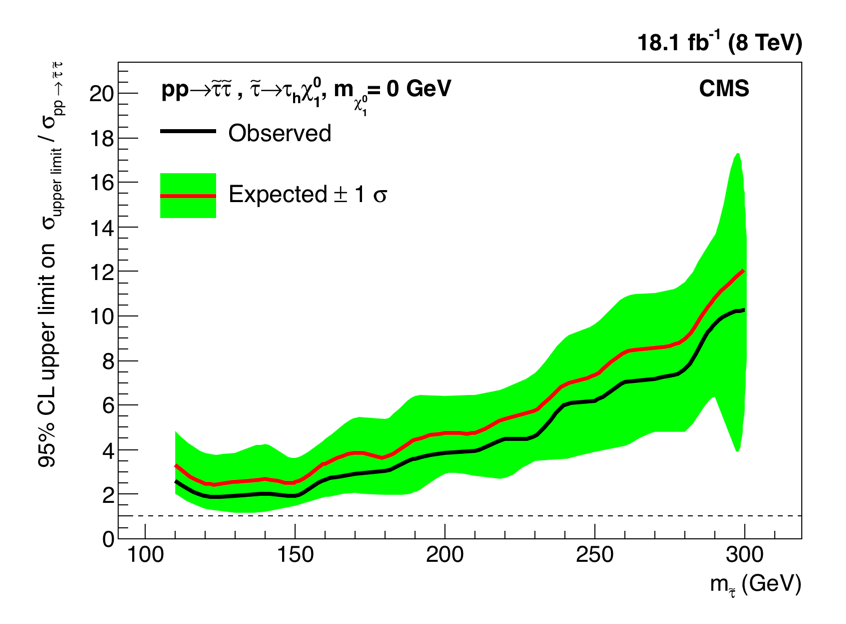
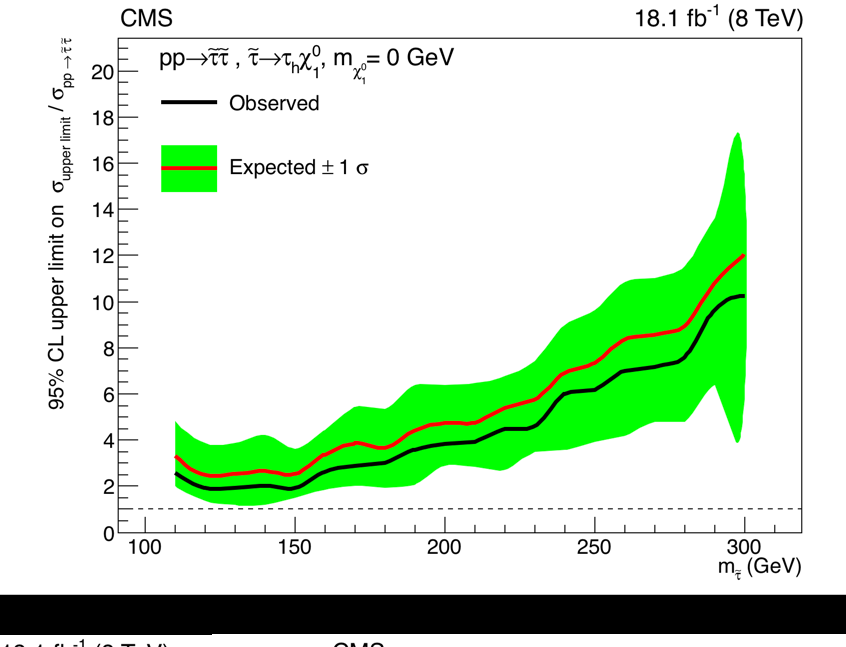
Fig.7 is again modified

Changed region(s): [[0.0, 0.0, 1.0, 1.0]]

diff --git a/papers/SUS-14-022/trunk/StatisticsFig/ExclusionSTauSTauLsp1.C b/papers/SUS-14-022/trunk/StatisticsFig/ExclusionSTauSTauLsp1.C
@@ -1,8 +1,8 @@
-void a()
+void ExclusionSTauSTauLsp1()
 {
 //=========Macro generated from canvas: ExclusionSTauSTauLsp1/ExclusionSTauSTauLsp1
-//=========  (Mon Jul 18 12:12:55 2016) by ROOT version6.07/07
-   TCanvas *ExclusionSTauSTauLsp1 = new TCanvas("ExclusionSTauSTauLsp1", "ExclusionSTauSTauLsp1",177,45,848,676);
+//=========  (Mon Jul 18 12:38:45 2016) by ROOT version6.07/07
+   TCanvas *ExclusionSTauSTauLsp1 = new TCanvas("ExclusionSTauSTauLsp1", "ExclusionSTauSTauLsp1",177,45,848,672);
    gStyle->SetOptTitle(0);
    ExclusionSTauSTauLsp1->Range(51.37143,-3.807417,333.6571,24.20766);
    ExclusionSTauSTauLsp1->SetFillColor(0);
@@ -144,34 +144,35 @@ void a()
    grae->SetName("TwoSigmaBand");
    grae->SetTitle("STauSTau");
    grae->SetFillColor(3);
+   grae->SetLineColor(2);
+   grae->SetLineWidth(4);
+   
+   TH1F *Graph_Graph_Graph_TwoSigmaBand300130013001 = new TH1F("Graph_Graph_Graph_TwoSigmaBand300130013001","STauSTau",100,91,319);
+   Graph_Graph_Graph_TwoSigmaBand300130013001->SetMinimum(0);
+   Graph_Graph_Graph_TwoSigmaBand300130013001->SetMaximum(21.40615);
+   Graph_Graph_Graph_TwoSigmaBand300130013001->SetDirectory(0);
+   Graph_Graph_Graph_TwoSigmaBand300130013001->SetStats(0);
 
    Int_t ci;      // for color index setting
    TColor *color; // for color definition with alpha
-   ci = TColor::GetColor("#ff0000");
-   grae->SetLineColor(ci);
-   grae->SetLineWidth(4);
-   
-   TH1F *Graph_Graph_TwoSigmaBand30013001 = new TH1F("Graph_Graph_TwoSigmaBand30013001","STauSTau",100,91,319);
-   Graph_Graph_TwoSigmaBand30013001->SetMinimum(0);
-   Graph_Graph_TwoSigmaBand30013001->SetMaximum(21.40615);
-   Graph_Graph_TwoSigmaBand30013001->SetDirectory(0);
-   Graph_Graph_TwoSigmaBand30013001->SetStats(0);
-
    ci = TColor::GetColor("#000099");
-   Graph_Graph_TwoSigmaBand30013001->SetLineColor(ci);
-   Graph_Graph_TwoSigmaBand30013001->GetXaxis()->SetTitle("m_{#tilde{#tau}} (GeV)");
-   Graph_Graph_TwoSigmaBand30013001->GetXaxis()->SetLabelFont(42);
-   Graph_Graph_TwoSigmaBand30013001->GetXaxis()->SetTitleOffset(1.18);
-   Graph_Graph_TwoSigmaBand30013001->GetXaxis()->SetTitleFont(42);
-   Graph_Graph_TwoSigmaBand30013001->GetYaxis()->SetTitle("95% CL upper limit on  #sigma_{upper limit} / #sigma_{pp #rightarrow #tilde{#tau} #tilde{#tau}}");
-   Graph_Graph_TwoSigmaBand30013001->GetYaxis()->SetLabelFont(42);
-   Graph_Graph_TwoSigmaBand30013001->GetYaxis()->SetTitleOffset(1.24);
-   Graph_Graph_TwoSigmaBand30013001->GetYaxis()->SetTitleFont(42);
-   Graph_Graph_TwoSigmaBand30013001->GetZaxis()->SetLabelFont(42);
-   Graph_Graph_TwoSigmaBand30013001->GetZaxis()->SetLabelSize(0.035);
-   Graph_Graph_TwoSigmaBand30013001->GetZaxis()->SetTitleSize(0.035);
-   Graph_Graph_TwoSigmaBand30013001->GetZaxis()->SetTitleFont(42);
-   grae->SetHistogram(Graph_Graph_TwoSigmaBand30013001);
+   Graph_Graph_Graph_TwoSigmaBand300130013001->SetLineColor(ci);
+   Graph_Graph_Graph_TwoSigmaBand300130013001->GetXaxis()->SetTitle("m_{#tilde{#tau}} (GeV)");
+   Graph_Graph_Graph_TwoSigmaBand300130013001->GetXaxis()->SetLabelFont(42);
+   Graph_Graph_Graph_TwoSigmaBand300130013001->GetXaxis()->SetLabelSize(0.035);
+   Graph_Graph_Graph_TwoSigmaBand300130013001->GetXaxis()->SetTitleSize(0.035);
+   Graph_Graph_Graph_TwoSigmaBand300130013001->GetXaxis()->SetTitleFont(42);
+   Graph_Graph_Graph_TwoSigmaBand300130013001->GetYaxis()->SetTitle("95% CL upper limit on  #sigma_{upper limit} / #sigma_{pp #rightarrow #tilde{#tau} #tilde{#tau}}");
+   Graph_Graph_Graph_TwoSigmaBand300130013001->GetYaxis()->SetLabelFont(42);
+   Graph_Graph_Graph_TwoSigmaBand300130013001->GetYaxis()->SetLabelSize(0.035);
+   Graph_Graph_Graph_TwoSigmaBand300130013001->GetYaxis()->SetTitleSize(0.035);
+   Graph_Graph_Graph_TwoSigmaBand300130013001->GetYaxis()->SetTitleOffset(1.24);
+   Graph_Graph_Graph_TwoSigmaBand300130013001->GetYaxis()->SetTitleFont(42);
+   Graph_Graph_Graph_TwoSigmaBand300130013001->GetZaxis()->SetLabelFont(42);
+   Graph_Graph_Graph_TwoSigmaBand300130013001->GetZaxis()->SetLabelSize(0.035);
+   Graph_Graph_Graph_TwoSigmaBand300130013001->GetZaxis()->SetTitleSize(0.035);
+   Graph_Graph_Graph_TwoSigmaBand300130013001->GetZaxis()->SetTitleFont(42);
+   grae->SetHistogram(Graph_Graph_Graph_TwoSigmaBand300130013001);
    
    grae->Draw("ap4");
    
@@ -223,24 +224,27 @@ void a()
    graph->SetFillColor(1);
    graph->SetLineWidth(4);
    
-   TH1F *Graph_Graph_Obs11 = new TH1F("Graph_Graph_Obs11","Graph",100,91,319);
-   Graph_Graph_Obs11->SetMinimum(1.229018);
-   Graph_Graph_Obs11->SetMaximum(10.602);
-   Graph_Graph_Obs11->SetDirectory(0);
-   Graph_Graph_Obs11->SetStats(0);
-   Graph_Graph_Obs11->GetXaxis()->SetLabelFont(42);
-   Graph_Graph_Obs11->GetXaxis()->SetLabelSize(0.035);
-   Graph_Graph_Obs11->GetXaxis()->SetTitleSize(0.035);
-   Graph_Graph_Obs11->GetXaxis()->SetTitleFont(42);
-   Graph_Graph_Obs11->GetYaxis()->SetLabelFont(42);
-   Graph_Graph_Obs11->GetYaxis()->SetLabelSize(0.035);
-   Graph_Graph_Obs11->GetYaxis()->SetTitleSize(0.035);
-   Graph_Graph_Obs11->GetYaxis()->SetTitleFont(42);
-   Graph_Graph_Obs11->GetZaxis()->SetLabelFont(42);
-   Graph_Graph_Obs11->GetZaxis()->SetLabelSize(0.035);
-   Graph_Graph_Obs11->GetZaxis()->SetTitleSize(0.035);
-   Graph_Graph_Obs11->GetZaxis()->SetTitleFont(42);
-   graph->SetHistogram(Graph_Graph_Obs11);
+   TH1F *Graph_Graph_Graph_Obs111 = new TH1F("Graph_Graph_Graph_Obs111","Graph",100,91,319);
+   Graph_Graph_Graph_Obs111->SetMinimum(1.229018);
+   Graph_Graph_Graph_Obs111->SetMaximum(10.602);
+   Graph_Graph_Graph_Obs111->SetDirectory(0);
+   Graph_Graph_Graph_Obs111->SetStats(0);
+
+   ci = TColor::GetColor("#000099");
+   Graph_Graph_Graph_Obs111->SetLineColor(ci);
+   Graph_Graph_Graph_Obs111->GetXaxis()->SetLabelFont(42);
+   Graph_Graph_Graph_Obs111->GetXaxis()->SetLabelSize(0.035);
+   Graph_Graph_Graph_Obs111->GetXaxis()->SetTitleSize(0.035);
+   Graph_Graph_Graph_Obs111->GetXaxis()->SetTitleFont(42);
+   Graph_Graph_Graph_Obs111->GetYaxis()->SetLabelFont(42);
+   Graph_Graph_Graph_Obs111->GetYaxis()->SetLabelSize(0.035);
+   Graph_Graph_Graph_Obs111->GetYaxis()->SetTitleSize(0.035);
+   Graph_Graph_Graph_Obs111->GetYaxis()->SetTitleFont(42);
+   Graph_Graph_Graph_Obs111->GetZaxis()->SetLabelFont(42);
+   Graph_Graph_Graph_Obs111->GetZaxis()->SetLabelSize(0.035);
+   Graph_Graph_Graph_Obs111->GetZaxis()->SetTitleSize(0.035);
+   Graph_Graph_Graph_Obs111->GetZaxis()->SetTitleFont(42);
+   graph->SetHistogram(Graph_Graph_Graph_Obs111);
    
    graph->Draw("c");
    
@@ -290,44 +294,38 @@ void a()
    graph->SetName("Expected");
    graph->SetTitle("Graph");
    graph->SetFillColor(1);
-
-   ci = TColor::GetColor("#ff0000");
-   graph->SetLineColor(ci);
+   graph->SetLineColor(2);
    graph->SetLineWidth(4);
-
-   ci = TColor::GetColor("#ff0000");
-   graph->SetMarkerColor(ci);
+   graph->SetMarkerColor(2);
    
-   TH1F *Graph_Graph_Expected22 = new TH1F("Graph_Graph_Expected22","Graph",100,91,319);
-   Graph_Graph_Expected22->SetMinimum(1.521094);
-   Graph_Graph_Expected22->SetMaximum(12.98672);
-   Graph_Graph_Expected22->SetDirectory(0);
-   Graph_Graph_Expected22->SetStats(0);
-
-   ci = TColor::GetColor("#ff0000");
-   Graph_Graph_Expected22->SetLineColor(ci);
-   Graph_Graph_Expected22->GetXaxis()->SetLabelFont(42);
-   Graph_Graph_Expected22->GetXaxis()->SetLabelSize(0.035);
-   Graph_Graph_Expected22->GetXaxis()->SetTitleSize(0.035);
-   Graph_Graph_Expected22->GetXaxis()->SetTitleFont(42);
-   Graph_Graph_Expected22->GetYaxis()->SetLabelFont(42);
-   Graph_Graph_Expected22->GetYaxis()->SetLabelSize(0.035);
-   Graph_Graph_Expected22->GetYaxis()->SetTitleSize(0.035);
-   Graph_Graph_Expected22->GetYaxis()->SetTitleFont(42);
-   Graph_Graph_Expected22->GetZaxis()->SetLabelFont(42);
-   Graph_Graph_Expected22->GetZaxis()->SetLabelSize(0.035);
-   Graph_Graph_Expected22->GetZaxis()->SetTitleSize(0.035);
-   Graph_Graph_Expected22->GetZaxis()->SetTitleFont(42);
-   graph->SetHistogram(Graph_Graph_Expected22);
+   TH1F *Graph_Graph_Graph_Expected222 = new TH1F("Graph_Graph_Graph_Expected222","Graph",100,91,319);
+   Graph_Graph_Graph_Expected222->SetMinimum(1.521094);
+   Graph_Graph_Graph_Expected222->SetMaximum(12.98672);
+   Graph_Graph_Graph_Expected222->SetDirectory(0);
+   Graph_Graph_Graph_Expected222->SetStats(0);
+   Graph_Graph_Graph_Expected222->SetLineColor(2);
+   Graph_Graph_Graph_Expected222->GetXaxis()->SetLabelFont(42);
+   Graph_Graph_Graph_Expected222->GetXaxis()->SetLabelSize(0.035);
+   Graph_Graph_Graph_Expected222->GetXaxis()->SetTitleSize(0.035);
+   Graph_Graph_Graph_Expected222->GetXaxis()->SetTitleFont(42);
+   Graph_Graph_Graph_Expected222->GetYaxis()->SetLabelFont(42);
+   Graph_Graph_Graph_Expected222->GetYaxis()->SetLabelSize(0.035);
+   Graph_Graph_Graph_Expected222->GetYaxis()->SetTitleSize(0.035);
+   Graph_Graph_Graph_Expected222->GetYaxis()->SetTitleFont(42);
+   Graph_Graph_Graph_Expected222->GetZaxis()->SetLabelFont(42);
+   Graph_Graph_Graph_Expected222->GetZaxis()->SetLabelSize(0.035);
+   Graph_Graph_Graph_Expected222->GetZaxis()->SetTitleSize(0.035);
+   Graph_Graph_Graph_Expected222->GetZaxis()->SetTitleFont(42);
+   graph->SetHistogram(Graph_Graph_Graph_Expected222);
    
    graph->Draw("c");
    TLine *line = new TLine(91,1,319,1);
    line->SetLineStyle(7);
    line->Draw();
    
-   TLegend *leg = new TLegend(0.1749409,0.6346154,0.5567376,0.8397436,NULL,"brNDC");
+   TLegend *leg = new TLegend(0.1761229,0.6474359,0.5579196,0.8525641,NULL,"brNDC");
    leg->SetBorderSize(1);
-   leg->SetTextSize(0.04166667);
+   leg->SetTextSize(0.03525641);
    leg->SetLineColor(0);
    leg->SetLineStyle(1);
    leg->SetLineWidth(1);
@@ -344,14 +342,10 @@ void a()
    entry=leg->AddEntry("TwoSigmaBand","Expected #pm 1 #sigma","fl");
    entry->SetFillColor(3);
    entry->SetFillStyle(1001);
-
-   ci = TColor::GetColor("#ff0000");
-   entry->SetLineColor(ci);
+   entry->SetLineColor(2);
    entry->SetLineStyle(1);
    entry->SetLineWidth(4);
-
-   ci = TColor::GetColor("#ff0000");
-   entry->SetMarkerColor(ci);
+   entry->SetMarkerColor(2);
    entry->SetMarkerStyle(21);
    entry->SetMarkerSize(1);
    entry->SetTextFont(42);
@@ -359,16 +353,19 @@ void a()
    TLatex *   tex = new TLatex(91.56716,22.34501,"");
    tex->SetLineWidth(2);
    tex->Draw();
-      tex = new TLatex(284.6075,19.89765,"CMS");
+      tex = new TLatex(91.56716,21.92252,"CMS");
+   tex->SetTextFont(42);
    tex->SetTextSize(0.04026846);
    tex->SetLineWidth(2);
    tex->Draw();
-      tex = new TLatex(105.0925,19.89765,"pp#rightarrow#tilde{#tau}#tilde{#tau} , #tilde{#tau}#rightarrow#tau_{h}#chi^{0}_{1}, m_{#chi^{0}_{1}}= 0 GeV");
+      tex = new TLatex(104.6119,20.23256,"pp#rightarrow#tilde{#tau}#tilde{#tau} , #tilde{#tau}#rightarrow#tau_{h}#chi^{0}_{1}, m_{#chi^{0}_{1}}= 0 GeV");
+   tex->SetTextFont(42);
    tex->SetTextSize(0.04);
    tex->SetLineWidth(2);
    tex->Draw();
-      tex = new TLatex(263.9199,21.96286,"18.1 fb^{-1} (8 TeV)");
-   tex->SetTextSize(0.04);
+      tex = new TLatex(262.9189,21.95606,"18.1 fb^{-1} (8 TeV)");
+   tex->SetTextFont(42);
+   tex->SetTextSize(0.0400641);
    tex->SetLineWidth(2);
    tex->Draw();
    ExclusionSTauSTauLsp1->Modified();

diff --git a/papers/SUS-14-022/trunk/Statistics.tex b/papers/SUS-14-022/trunk/Statistics.tex
@@ -88,7 +88,7 @@ Figure \ref{fig:limit_stau_stau} displays the ratio of the
 \begin{linenomath}
 \begin{figure}[!htb]
 \centering
-\includegraphics[width=0.8\textwidth,keepaspectratio=true]{StatisticsFig/ExclusionSTauSTauLsp1.pdf}
+\includegraphics[width=0.7\textwidth,keepaspectratio=true]{StatisticsFig/ExclusionSTauSTauLsp1.pdf}
 \caption{Upper limits at 95\% confidence level on $\sTau\sTau$ production cross section in the \tauTau channel. The mass of \PSGczDo is 0\GeV.}
 \label{fig:limit_stau_stau}
 \end{figure}
